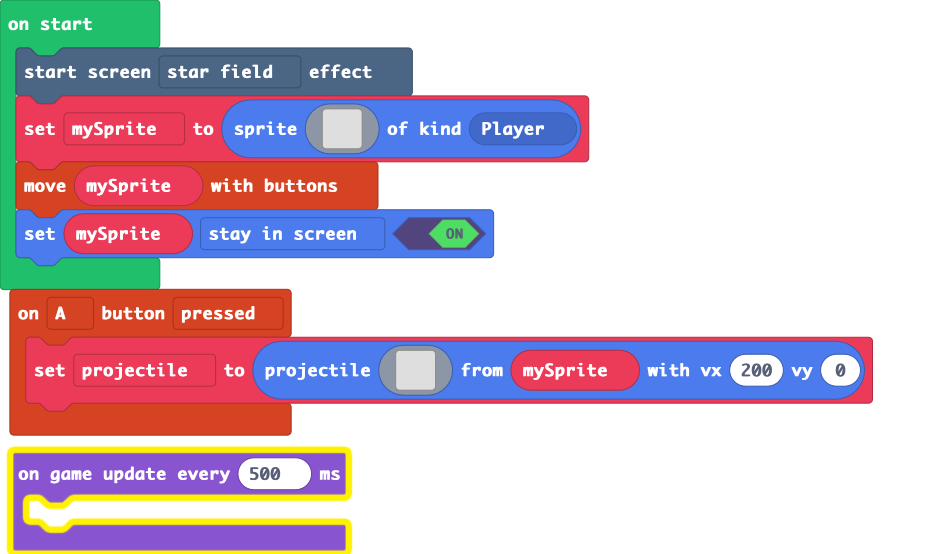
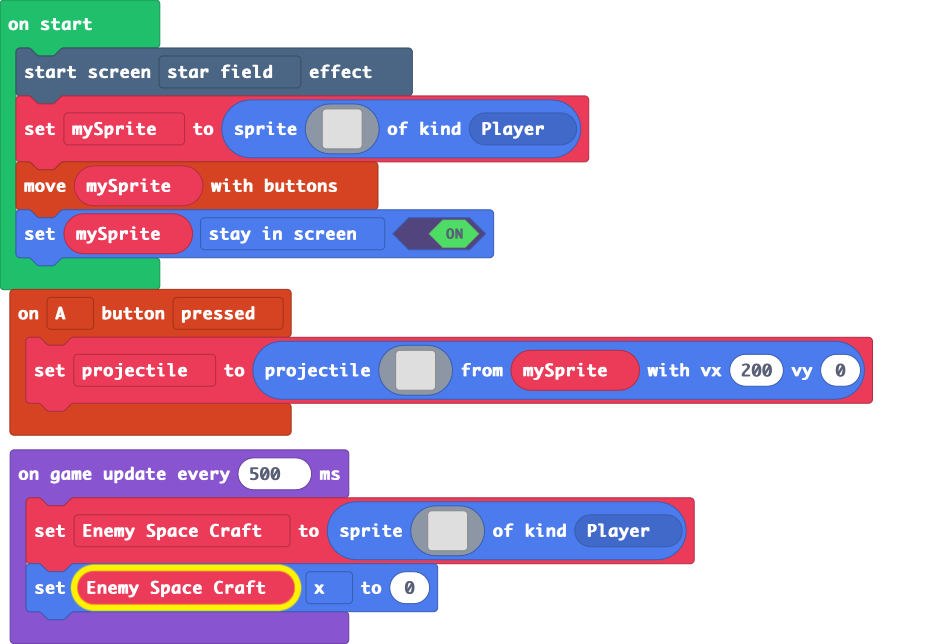
Enemy Sprite

diff --git a/main.ts b/main.ts
@@ -18,6 +18,7 @@ controller.A.onEvent(ControllerButtonEvent.Pressed, function () {
         . . . . . . . . . . . . . . . . 
         `, mySprite, 200, 0)
 })
+let Enemy_Space_Craft: Sprite = null
 let projectile: Sprite = null
 let mySprite: Sprite = null
 effects.starField.startScreenEffect()
@@ -42,5 +43,23 @@ mySprite = sprites.create(img`
 controller.moveSprite(mySprite)
 mySprite.setFlag(SpriteFlag.StayInScreen, true)
 game.onUpdateInterval(500, function () {
-	
+    Enemy_Space_Craft = sprites.create(img`
+        . . . . . . . . . . . . . . . . 
+        . . . . . . . . . . . . 2 2 5 5 
+        . . . . . . . . 2 2 2 2 2 . 5 5 
+        . . . . . . . 2 2 2 2 2 2 2 5 5 
+        . . . . . . 2 2 2 2 2 2 2 2 5 5 
+        . . . . . 2 2 2 3 3 3 2 2 . . . 
+        . . . . 2 2 2 2 3 3 3 2 . . . . 
+        . . . 2 2 2 2 2 2 2 2 . . . . . 
+        2 2 2 2 2 3 3 3 2 2 2 . . . . . 
+        2 2 2 2 2 3 3 3 2 2 2 2 . . . . 
+        2 2 2 2 2 2 2 2 2 2 2 2 2 2 . . 
+        . . . 2 2 2 2 2 2 3 3 3 2 2 5 5 
+        . . . . . 2 2 2 2 3 3 3 2 2 5 5 
+        . . . . . . . . 2 2 2 2 2 2 5 5 
+        . . . . . . . . . . . 2 2 2 5 5 
+        . . . . . . . . . . . . . . . . 
+        `, SpriteKind.Player)
+    Enemy_Space_Craft.x = 0
 })
